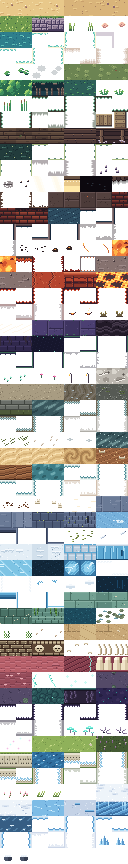
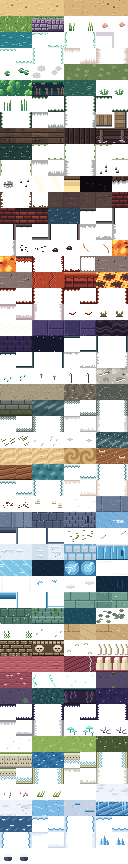
Polish the Rotting Hull and the Kiln: deck, hull frames, flagstones, the Matriarch, the great door (#50)
* The Rotting Hull: Tide Hook, puzzles, eight more rooms and the Matriarch

- Tide Hook (item_1/item_2 slot): carries Wren to hook posts over gaps and
  water, drags crates, yanks small enemies, tears planks off the boss
- Deck gaps (_): falling costs a bubble and puts Wren back on solid deck
- Crates (push or hook), pressure plates, bars that open on "plates" or
  "clear" gates, hidden chests, the big-key door, a listing deck that
  slides Wren downhill
- Barnacle Matriarch: a hermit crab in a ship's figurehead. Hook a plank
  while her claw is stuck after a slam, then hit the soft body; spits
  barnacles below two thirds health
- First Tidebell after the fight: grows the Resonance meter, way out
- Twelve Hull rooms laid out in tools/hull_rooms.py with keys, map,
  compass and big key; darker, rotting deck planks
- GameState items (give_item/has_item/item_slots), matching PR #3's API
- Smoke test covers gaps, the hook, crates and plates, the shut-in room,
  the great door and the boss; screenshots of the new rooms and fight

Claude-Session: https://claude.ai/code/session_01UYEn5VjHLAcVEoVjeQTmCo

* Great door: vertical planks under an arch, so it no longer reads as a chest

Claude-Session: https://claude.ai/code/session_01UYEn5VjHLAcVEoVjeQTmCo

* Check the talk box never covers the Tidebell or Wren ringing it

Claude-Session: https://claude.ai/code/session_01UYEn5VjHLAcVEoVjeQTmCo

* Smoke test: clear the Orlop's shots in flight before the hook check
[…]

diff --git a/tools/hull_dungeon_art.py b/tools/hull_dungeon_art.py
@@ -234,35 +234,37 @@ BARS = [
 
 
 def big_door_half():
-    """Left half of the great door (the right half is mirrored): tall
-    vertical planks under a dark arch, heavy iron hinges, gilt rivets, and
-    half of a big brass lock with a keyhole at the seam. 16x16."""
+    """Left half of the great door (the right half is mirrored): heavy
+    vertical planks with grain under a dark arch, two iron straps with gilt
+    rivets, and half of a big brass lock plate at the seam with a round
+    keyhole and its slot. 16x16."""
     c = canvas(16, 16)
     fill_rect(c, 0, 0, 16, 16, "3")
     # Arched opening: the doorway's top corner curves in.
     for y in range(16):
-        inset = max(0, 4 - y) if y < 4 else 0
+        inset = (4, 2, 1, 1)[y] if y < 4 else 0
         for x in range(1 + inset, 16):
             c[y][x] = "8"
-    # Vertical planks with dark seams.
+    # Vertical planks with dark seams and a little grain.
     for x in (5, 10):
         for y in range(16):
             if c[y][x] == "8":
                 c[y][x] = "3"
-    # Iron hinge straps.
-    for y in (4, 11):
-        for x in range(2, 14):
+    # Iron hinge straps, with a curl at the hinge end.
+    for y in (3, 12):
+        for x in range(2, 16):
             if c[y][x] in ("8", "3"):
                 c[y][x] = "S"
+        put(c, 2, y - 1, "S")
         put(c, 2, y + 1, "S")
-    # Gilt rivets on the straps.
-    for (x, y) in ((4, 4), (8, 4), (12, 4), (4, 11), (8, 11), (12, 11)):
+    for (x, y) in ((4, 3), (8, 3), (4, 12), (8, 12)):
         put(c, x, y, "7")
-    # The lock: half of a brass plate with the big keyhole at the seam.
-    fill_rect(c, 11, 6, 5, 4, "Q")
-    put(c, 15, 7, "3")
-    put(c, 15, 8, "3")
-    put(c, 14, 8, "3")
+    # The lock plate: brass, riveted, with half a round keyhole and slot.
+    fill_rect(c, 11, 5, 5, 6, "Q")
+    put(c, 12, 6, "7")
+    put(c, 12, 9, "7")
+    for (x, y) in ((14, 6), (15, 6), (14, 7), (15, 7), (15, 8), (15, 9)):
+        put(c, x, y, "3")
     return rows_of(c)
 
 
@@ -446,6 +448,13 @@ def tidebell(rung):
 # under her. Planks strapped on top are drawn separately (they come off).
 # 64x48 frames, feet on row 45.
 # --------------------------------------------------------------------------
+def barnacle(c, x, y):
+    """A little barnacle cone: a white rim round a dark mouth."""
+    for (dx, dy) in ((-1, 0), (1, 0), (0, -1), (-1, 1), (0, 1), (1, 1)):
+        put(c, x + dx, y + dy, "$")
+    put(c, x, y, "3")
+
+
 def _figurehead(c, lift=0, tilt=0):
     """The shell: a carved figurehead lying on its back. Her head is at the
     front left, face turned up and calm; gilt hair streams back over the
@@ -453,9 +462,17 @@ def _figurehead(c, lift=0, tilt=0):
     cy = 17 - lift
     cx = 34 + tilt
     fill_ellipse(c, cx, cy, 21, 12, "8")
-    # Faded gown paint across the middle of the carving.
-    fill_ellipse(c, cx + 6, cy + 3, 11, 6, "6", only=("8",))
-    line(c, cx - 3, cy + 6, cx + 14, cy, "0", 2)
+    # Faded sea-green gown across the middle of the carving, a gilt hem.
+    fill_ellipse(c, cx + 6, cy + 3, 11, 6, "0", only=("8",))
+    for x in range(cx - 5, cx + 18):
+        y = cy + 3 + round(5.5 * math.sqrt(max(0.0, 1 - ((x - cx - 6) / 11.0) ** 2)))
+        if c[y - 1][x] == "0":
+            c[y - 1][x] = "7"
+    # Carved folds in the gown.
+    for fx in (cx + 2, cx + 7, cx + 12):
+        for fy in range(cy, cy + 6):
+            if c[fy][fx] == "0":
+                c[fy][fx] = "8"
     # Hair: a few long locks flowing back from the head.
     for i, (dy, bend) in enumerate(((-9, 2), (-6, 3), (-3, 2))):
         for x in range(cx - 12, cx + 14):
@@ -471,22 +488,25 @@ def _figurehead(c, lift=0, tilt=0):
     put(c, hx, hy, "8")
     put(c, hx + 1, hy, "8")
     put(c, hx - 1, hy + 3, "5")
-    # Barnacles crusting the rim, weed hanging off.
-    for x in (20, 24, 41, 46, 50):
-        put(c, x + tilt, cy + 10, "$")
-        put(c, x + 1 + tilt, cy + 10, "$")
-    for x in (cx + 18, cx + 20):
-        for i in range(4):
-            put(c, x, cy + 3 + i, "X")
+    # Barnacles crusting the wood in clusters, weed hanging off.
+    for (bx, by) in ((cx - 8, cy - 9), (cx + 2, cy - 11), (cx + 12, cy - 8),
+                     (cx + 17, cy - 3), (cx - 12, cy + 8), (cx + 8, cy + 9), (cx + 15, cy + 7)):
+        barnacle(c, bx, by)
+    for x, n in ((cx + 18, 6), (cx + 20, 4)):
+        for i in range(n):
+            put(c, x + (i // 3), cy + 3 + i, "X")
 
 
 def _crab(c, step=0, claw="rest", mouth=False, out=False):
     """Everything of the crab that shows in front of the shell."""
     base = 33
     fill_ellipse(c, 33, base, 17, 6, "5")
-    # Barnacle spots on the carapace.
-    for (x, y) in ((24, 32), (40, 31), (36, 35)):
-        put(c, x, y, "$")
+    # Soft pink flecks along the carapace's crown.
+    for x in range(22, 45):
+        if c[base - 4][x] == "5":
+            c[base - 4][x] = "&" if x % 5 == 0 else c[base - 4][x]
+    for (x, y) in ((22, 32), (44, 31)):
+        barnacle(c, x, y)
     if out:
         # Lurched half out: the soft pink abdomen curls up behind.
         fill_ellipse(c, 50, base - 8, 10, 9, "&")
@@ -518,12 +538,13 @@ def _crab(c, step=0, claw="rest", mouth=False, out=False):
     if claw == "rest":
         line(c, 22, base + 2, 17, base + 4, "5", 3)
         fill_ellipse(c, 13, 39, 9, 6, "5")
-        # Two pincer fingers, open a crack.
+        # Two pincer fingers, open a crack: they rise from the claw's tip.
         line(c, 5, 32, 9, 37, "5", 3)
         line(c, 3, 38, 8, 40, "5", 2)
         put(c, 8, 38, "3")
-        for (x, y) in ((12, 36), (16, 39), (10, 42)):
-            put(c, x, y, "$")
+        put(c, 7, 37, "3")
+        barnacle(c, 14, 37)
+        barnacle(c, 18, 41)
     elif claw == "up":
         line(c, 22, base, 14, 20, "5", 3)
         fill_ellipse(c, 11, 12, 9, 8, "5")

diff --git a/tools/hull_art.py b/tools/hull_art.py
@@ -33,32 +33,42 @@ def blank(color=CLEAR):
 
 
 def plank_tile(seed):
-    """Deck planks running across the room: four boards per tile, each with
-    a dark seam under it. Rare butt joints and nails, a little grain, and
-    patches of green-black rot creeping out of the seams."""
+    """Deck planks running across the room: three boards per tile of
+    slightly different widths and weathering, each with a dark seam under
+    it and a worn highlight on its top edge. Butt joints with a pair of
+    nail heads either side, long streaks of grain, and now and then green-
+    black rot creeping out of a seam."""
     rnd = random.Random(500 + seed)
     px = blank(PLANK[2])
-    for board in range(4):
-        y0 = board * 4
-        tone = rnd.choice((2, 2, 3, 2))
-        for y in range(y0, y0 + 3):
+    nail = hex_color("#86705C")
+    y0 = 0
+    for board, height in enumerate((5, 5, 6)):
+        tone = rnd.choice((1, 2, 2, 3))
+        for y in range(y0, y0 + height - 1):
             for x in range(T):
                 px[y][x] = PLANK[tone]
         for x in range(T):
-            px[y0][x] = PLANK[tone - 1]
-            px[y0 + 3][x] = PLANK[5]
-        if rnd.random() < 0.35:
-            jx = rnd.randrange(2, T - 2)
-            for y in range(y0, y0 + 3):
+            px[y0 + height - 1][x] = PLANK[5]
+            if rnd.random() < 0.7:
+                px[y0][x] = PLANK[tone - 1]
+        # Grain: long faint streaks along the board.
+        for _ in range(2):
+            gx, gy = rnd.randrange(T - 6), y0 + 1 + rnd.randrange(height - 2)
+            for dx in range(rnd.randrange(4, 9)):
+                if gx + dx < T:
+                    px[gy][gx + dx] = PLANK[min(tone + 1, 4)]
+        # A butt joint where one board ends and the next begins.
+        if rnd.random() < 0.3:
+            jx = rnd.randrange(3, T - 3)
+            for y in range(y0, y0 + height - 1):
                 px[y][jx] = PLANK[4]
-            px[y0 + 1][jx + 1] = hex_color("#6A4A3A")
-        gx, gy = rnd.randrange(T - 4), y0 + 1 + rnd.randrange(2)
-        for dx in range(rnd.randrange(2, 5)):
-            px[gy][gx + dx] = PLANK[tone + 1]
+            for nx in (jx - 2, jx + 2):
+                px[y0 + 1][nx] = nail
+        y0 += height
     # Rot: a soft patch bleeding out of a seam.
     if rnd.random() < 0.3:
-        cx, cy = rnd.randrange(2, T - 2), rnd.choice((3, 7, 11))
-        for _ in range(4):
+        cx, cy = rnd.randrange(2, T - 2), rnd.choice((4, 9))
+        for _ in range(5):
             x = min(max(cx + rnd.randrange(-2, 3), 0), T - 1)
             y = min(max(cy + rnd.randrange(-1, 2), 0), T - 1)
             px[y][x] = rnd.choice(ROT)
@@ -66,27 +76,29 @@ def plank_tile(seed):
 
 
 def hull_top(seed):
-    """Wall top: the hull's heavy timbers seen from above."""
+    """Wall top: the hull's heavy frames seen from above. They run the
+    other way from the deck, darker and broader, so walls read at a glance
+    against the floor: three thick timbers with black gaps between and an
+    iron bolt now and then."""
     rnd = random.Random(600 + seed)
-    px = blank(TIMBER[3])
-    for board in range(3):
-        y0 = board * 5 + 1
-        for y in range(y0, min(y0 + 4, T)):
-            for x in range(T):
-                px[y][x] = TIMBER[2] if y > y0 else TIMBER[1]
-        for x in range(T):
-            if y0 + 4 < T:
-                px[y0 + 4][x] = TIMBER[4]
-        if rnd.random() < 0.6:
-            bx = rnd.randrange(2, T - 2)
-            px[y0 + 1][bx] = IRON
-            px[y0][bx] = TIMBER[0]
-    for x in range(T):
-        px[0][x] = TIMBER[4]
-    for _ in range(5):
-        x, y = rnd.randrange(T), rnd.randrange(T)
-        if px[y][x] == TIMBER[2]:
-            px[y][x] = TIMBER[3]
+    px = blank(TIMBER[5])
+    # Beams 4, 4 and 5 wide with a 1px gap after each, so 16 columns fill
+    # evenly and the beams line up from tile to tile.
+    for beam, width in enumerate((4, 4, 5)):
+        x0 = beam * 5
+        for x in range(x0, min(x0 + width, T)):
+            for y in range(T):
+                px[y][x] = TIMBER[2] if x == x0 else TIMBER[3]
+        # Grain down the beam.
+        gx = min(x0 + 1 + rnd.randrange(2), T - 1)
+        gy = rnd.randrange(T - 6)
+        for dy in range(rnd.randrange(3, 7)):
+            px[gy + dy][gx] = TIMBER[4]
+        if rnd.random() < 0.5:
+            by = rnd.randrange(2, T - 2)
+            bx = min(x0 + 2, T - 1)
+            px[by][bx] = IRON
+            px[by - 1][bx] = TIMBER[1]
     return px
 
 

diff --git a/tools/kiln_art.py b/tools/kiln_art.py
@@ -62,30 +62,42 @@ def blank(color=CLEAR):
 
 
 def floor_tile(seed):
-    """Foundry flagstones: big square slabs worn smooth, a soft dark join
-    along the bottom and right, scuffs and soot, and now and then a slab
-    split in two or a fleck of slag still glowing."""
+    """Foundry flagstones: big irregular slabs worn smooth by carts. The
+    joins are soft and don't all line up with the tiles (some tiles have
+    no join on an edge, some split across by a wandering crack), so the floor reads as
+    paving, not as a grid or as brick. Soot, scuffs, and now and then a
+    fleck of slag still glowing."""
     rnd = random.Random(1200 + seed)
-    base = (STONE[2], STONE[2], hex_color("#4C3B39"), STONE[2])[seed % 4]
+    base = (STONE[2], hex_color("#4E3D3B"), STONE[2], hex_color("#584543"))[seed % 4]
     px = blank(base)
-    for i in range(T):
-        px[0][i] = STONE[1]
-        px[i][0] = STONE[1]
-        px[T - 1][i] = STONE[4]
-        px[i][T - 1] = STONE[4]
-    px[T - 1][0] = STONE[3]
-    px[0][T - 1] = STONE[3]
-    if seed % 2 == 1:
-        # A slab split across the middle.
-        for x in range(1, T - 1):
-            px[7][x] = STONE[4]
-            px[8][x] = STONE[1]
-    # Scuffs and soot.
-    for _ in range(7):
-        x, y = rnd.randrange(2, T - 2), rnd.randrange(2, T - 2)
-        px[y][x] = rnd.choice((STONE[1], STONE[3], STONE[3], STONE[4]))
-    if seed == 2:
-        x, y = rnd.randrange(3, T - 3), rnd.randrange(3, T - 3)
+    join = STONE[3]
+    # Bottom and right joins on only some tiles, so slabs span tiles.
+    if seed in (0, 1):
+        for x in range(T):
+            px[T - 1][x] = join
+    if seed in (0, 2):
+        for y in range(T):
+            px[y][T - 1] = join
+    # A slab split across: an uneven join wandering from side to side.
+    if seed in (1, 3):
+        y = rnd.randrange(5, 11)
+        for x in range(T):
+            if rnd.random() < 0.25:
+                y = max(3, min(T - 4, y + rnd.choice((-1, 1))))
+            px[y][x] = join
+            px[y + 1][x] = STONE[1] if rnd.random() < 0.5 else px[y + 1][x]
+    # Wear: lighter, smoothed patches and darker scuffs.
+    for _ in range(3):
+        cx, cy = rnd.randrange(2, T - 4), rnd.randrange(2, T - 3)
+        for dx in range(rnd.randrange(2, 4)):
+            if px[cy][cx + dx] == base:
+                px[cy][cx + dx] = STONE[1]
+    for _ in range(6):
+        x, y = rnd.randrange(1, T - 1), rnd.randrange(1, T - 1)
+        if px[y][x] == base:
+            px[y][x] = rnd.choice((STONE[3], STONE[3], STONE[4]))
+    if seed == 3:
+        x, y = rnd.randrange(3, T - 3), rnd.randrange(2, 6)
         px[y][x] = EMBER_DIM
     return px
 
